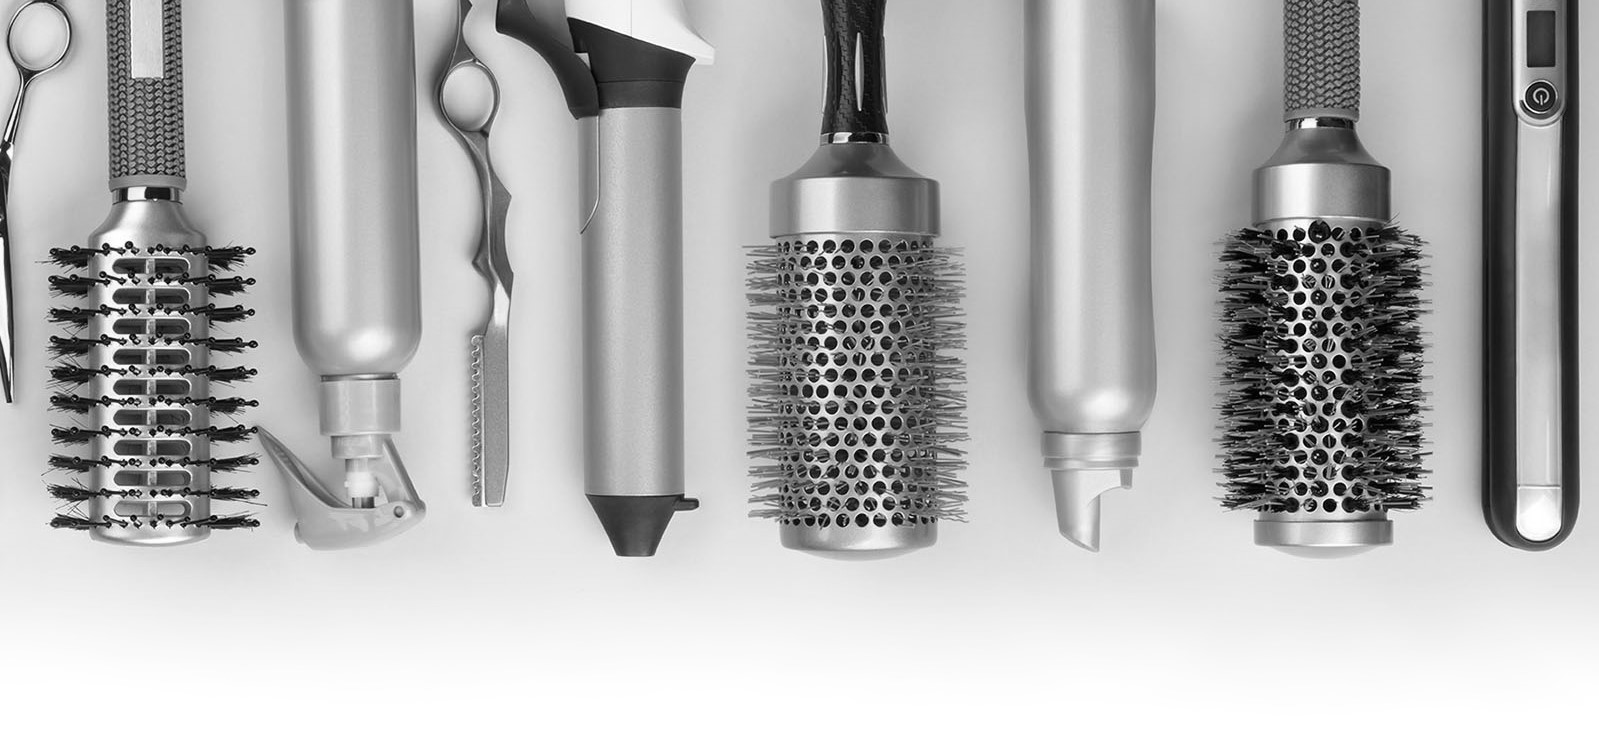
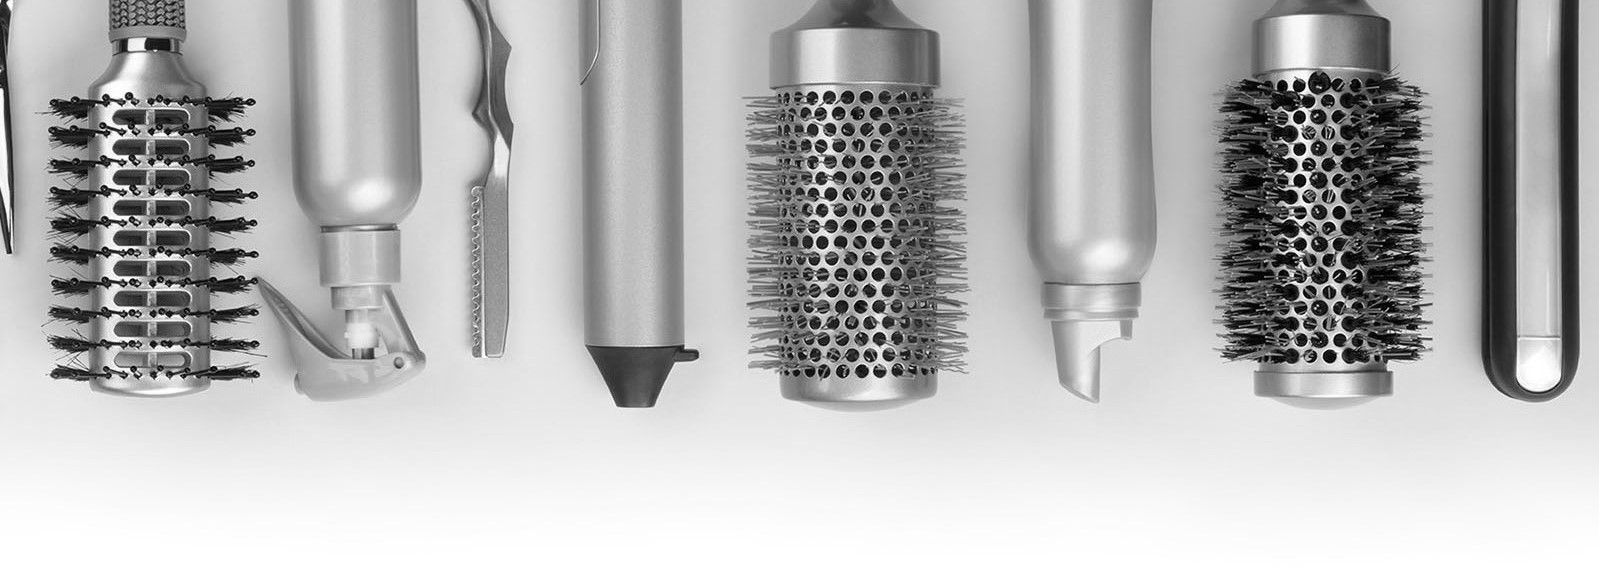
fixed background img

diff --git a/style.css b/style.css
@@ -45,6 +45,8 @@ hr {
 
 .greyed-pic-background {
   background-image: url("hair-tools-bw.jpg");
+  background-position: center top;
+  background-size: 100% auto;
   background-repeat:no-repeat;
   padding: 125px 0px;
 }
